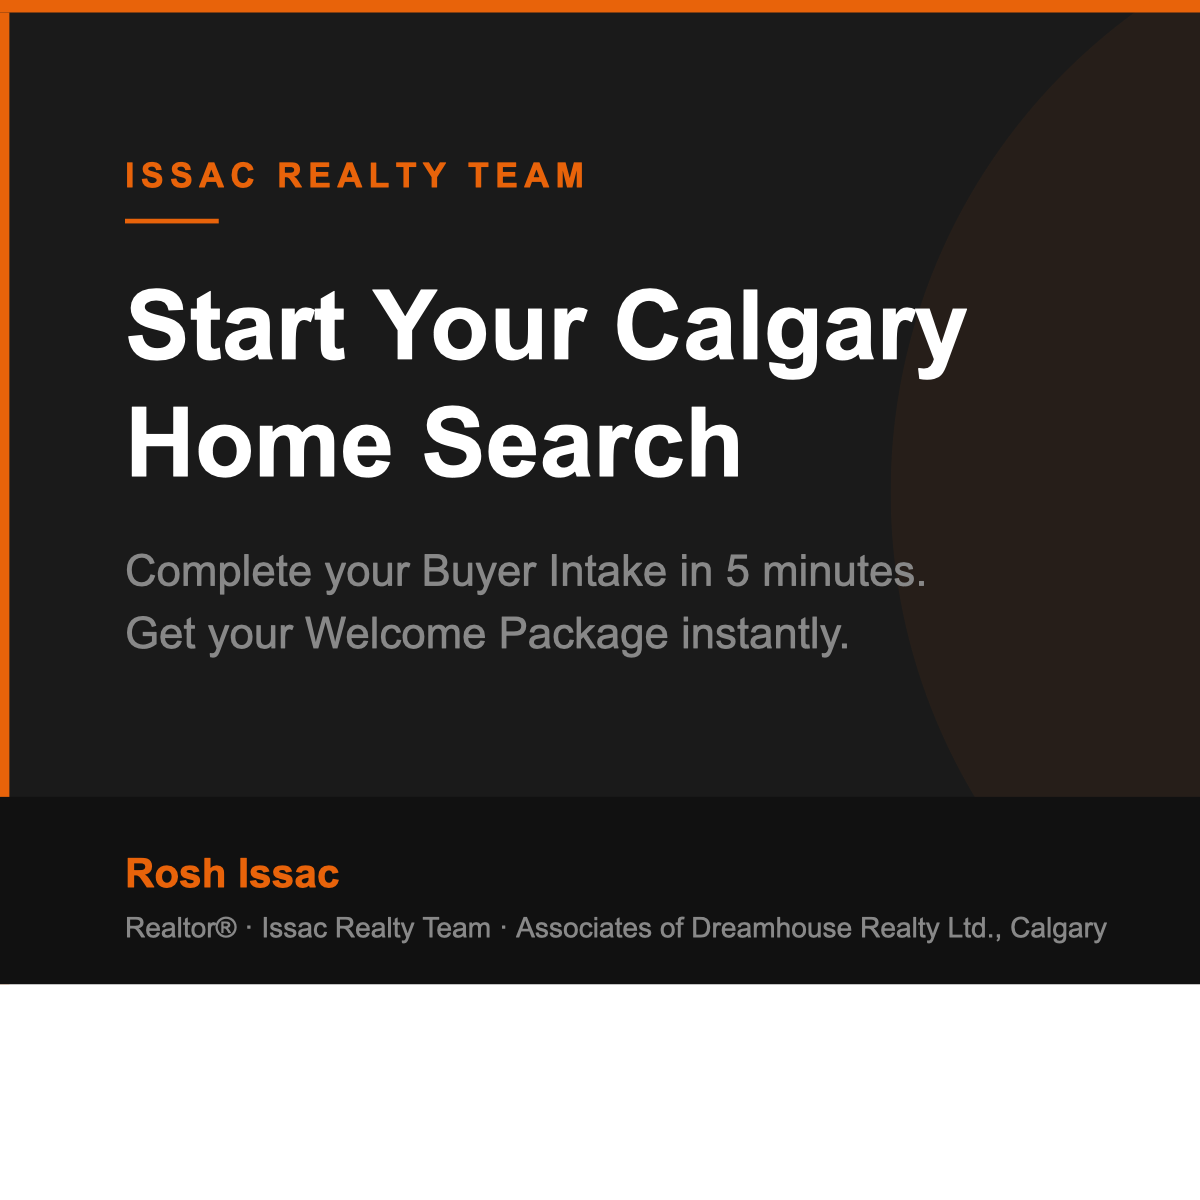
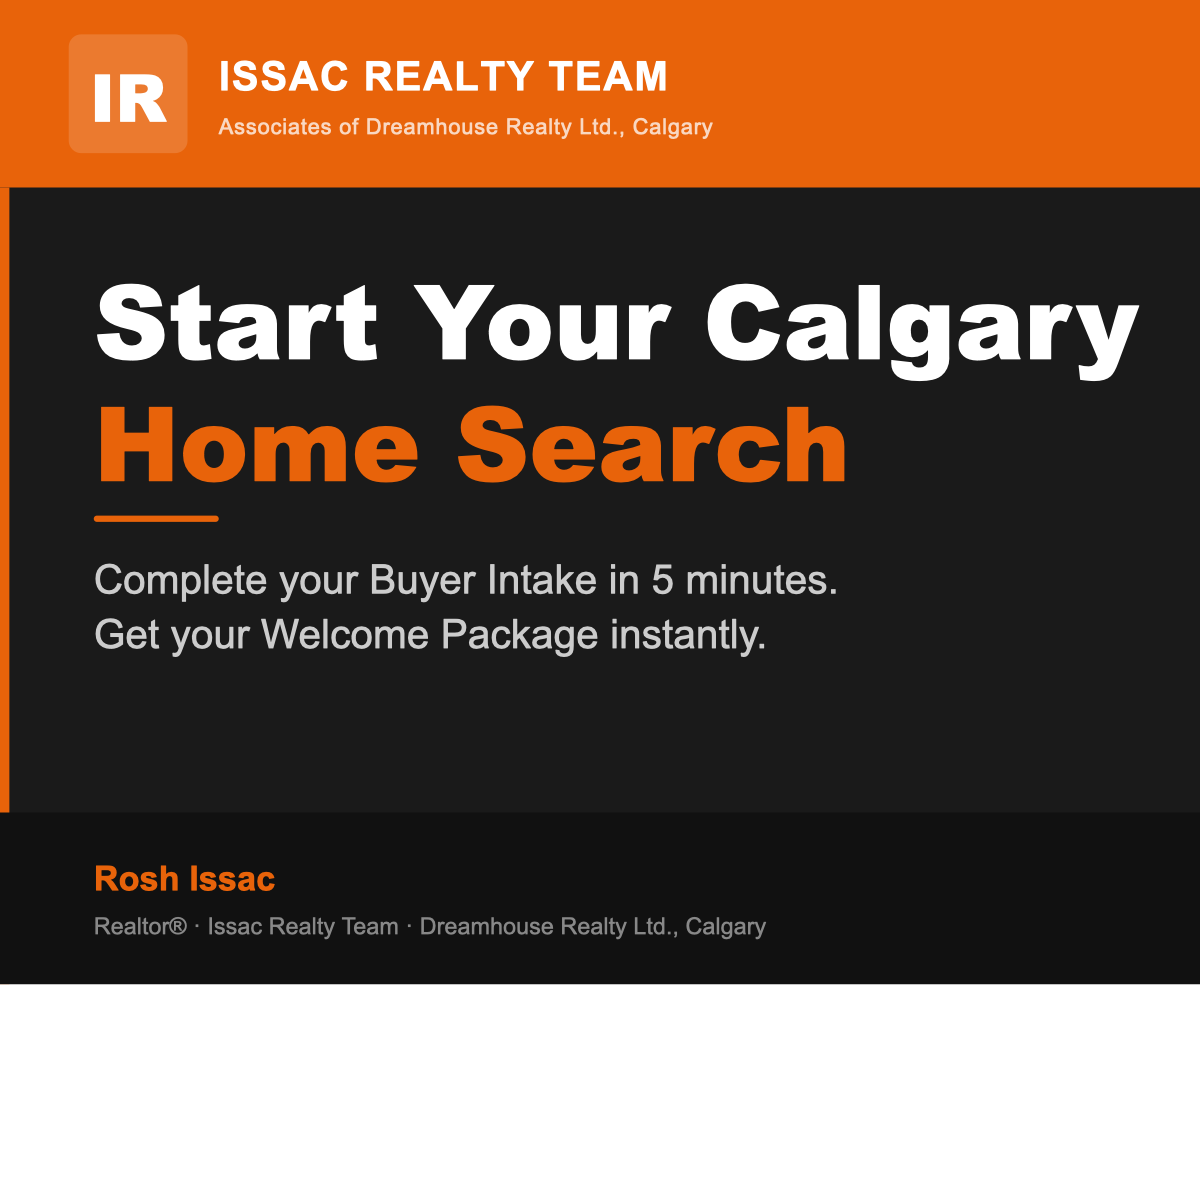
Redesign OG card with orange header, IR monogram, force WhatsApp cache refresh

diff --git a/index.html b/index.html
@@ -10,7 +10,7 @@
   <meta property="og:type"        content="website">
   <meta property="og:title"       content="Start Your Calgary Home Search — Issac Realty Team">
   <meta property="og:description" content="Complete your Buyer Intake in 5 minutes. Get your personalized Welcome Package plus a plain-English Consumer Relationship Guide from Rosh.">
-  <meta property="og:image"       content="https://buyer-intake-form.pages.dev/assets/og-card.png">
+  <meta property="og:image"       content="https://buyer-intake-form.pages.dev/assets/og-card.png?v=2">
   <meta property="og:image:width"  content="1200">
   <meta property="og:image:height" content="630">
   <meta property="og:url"          content="https://buyer-intake-form.pages.dev">